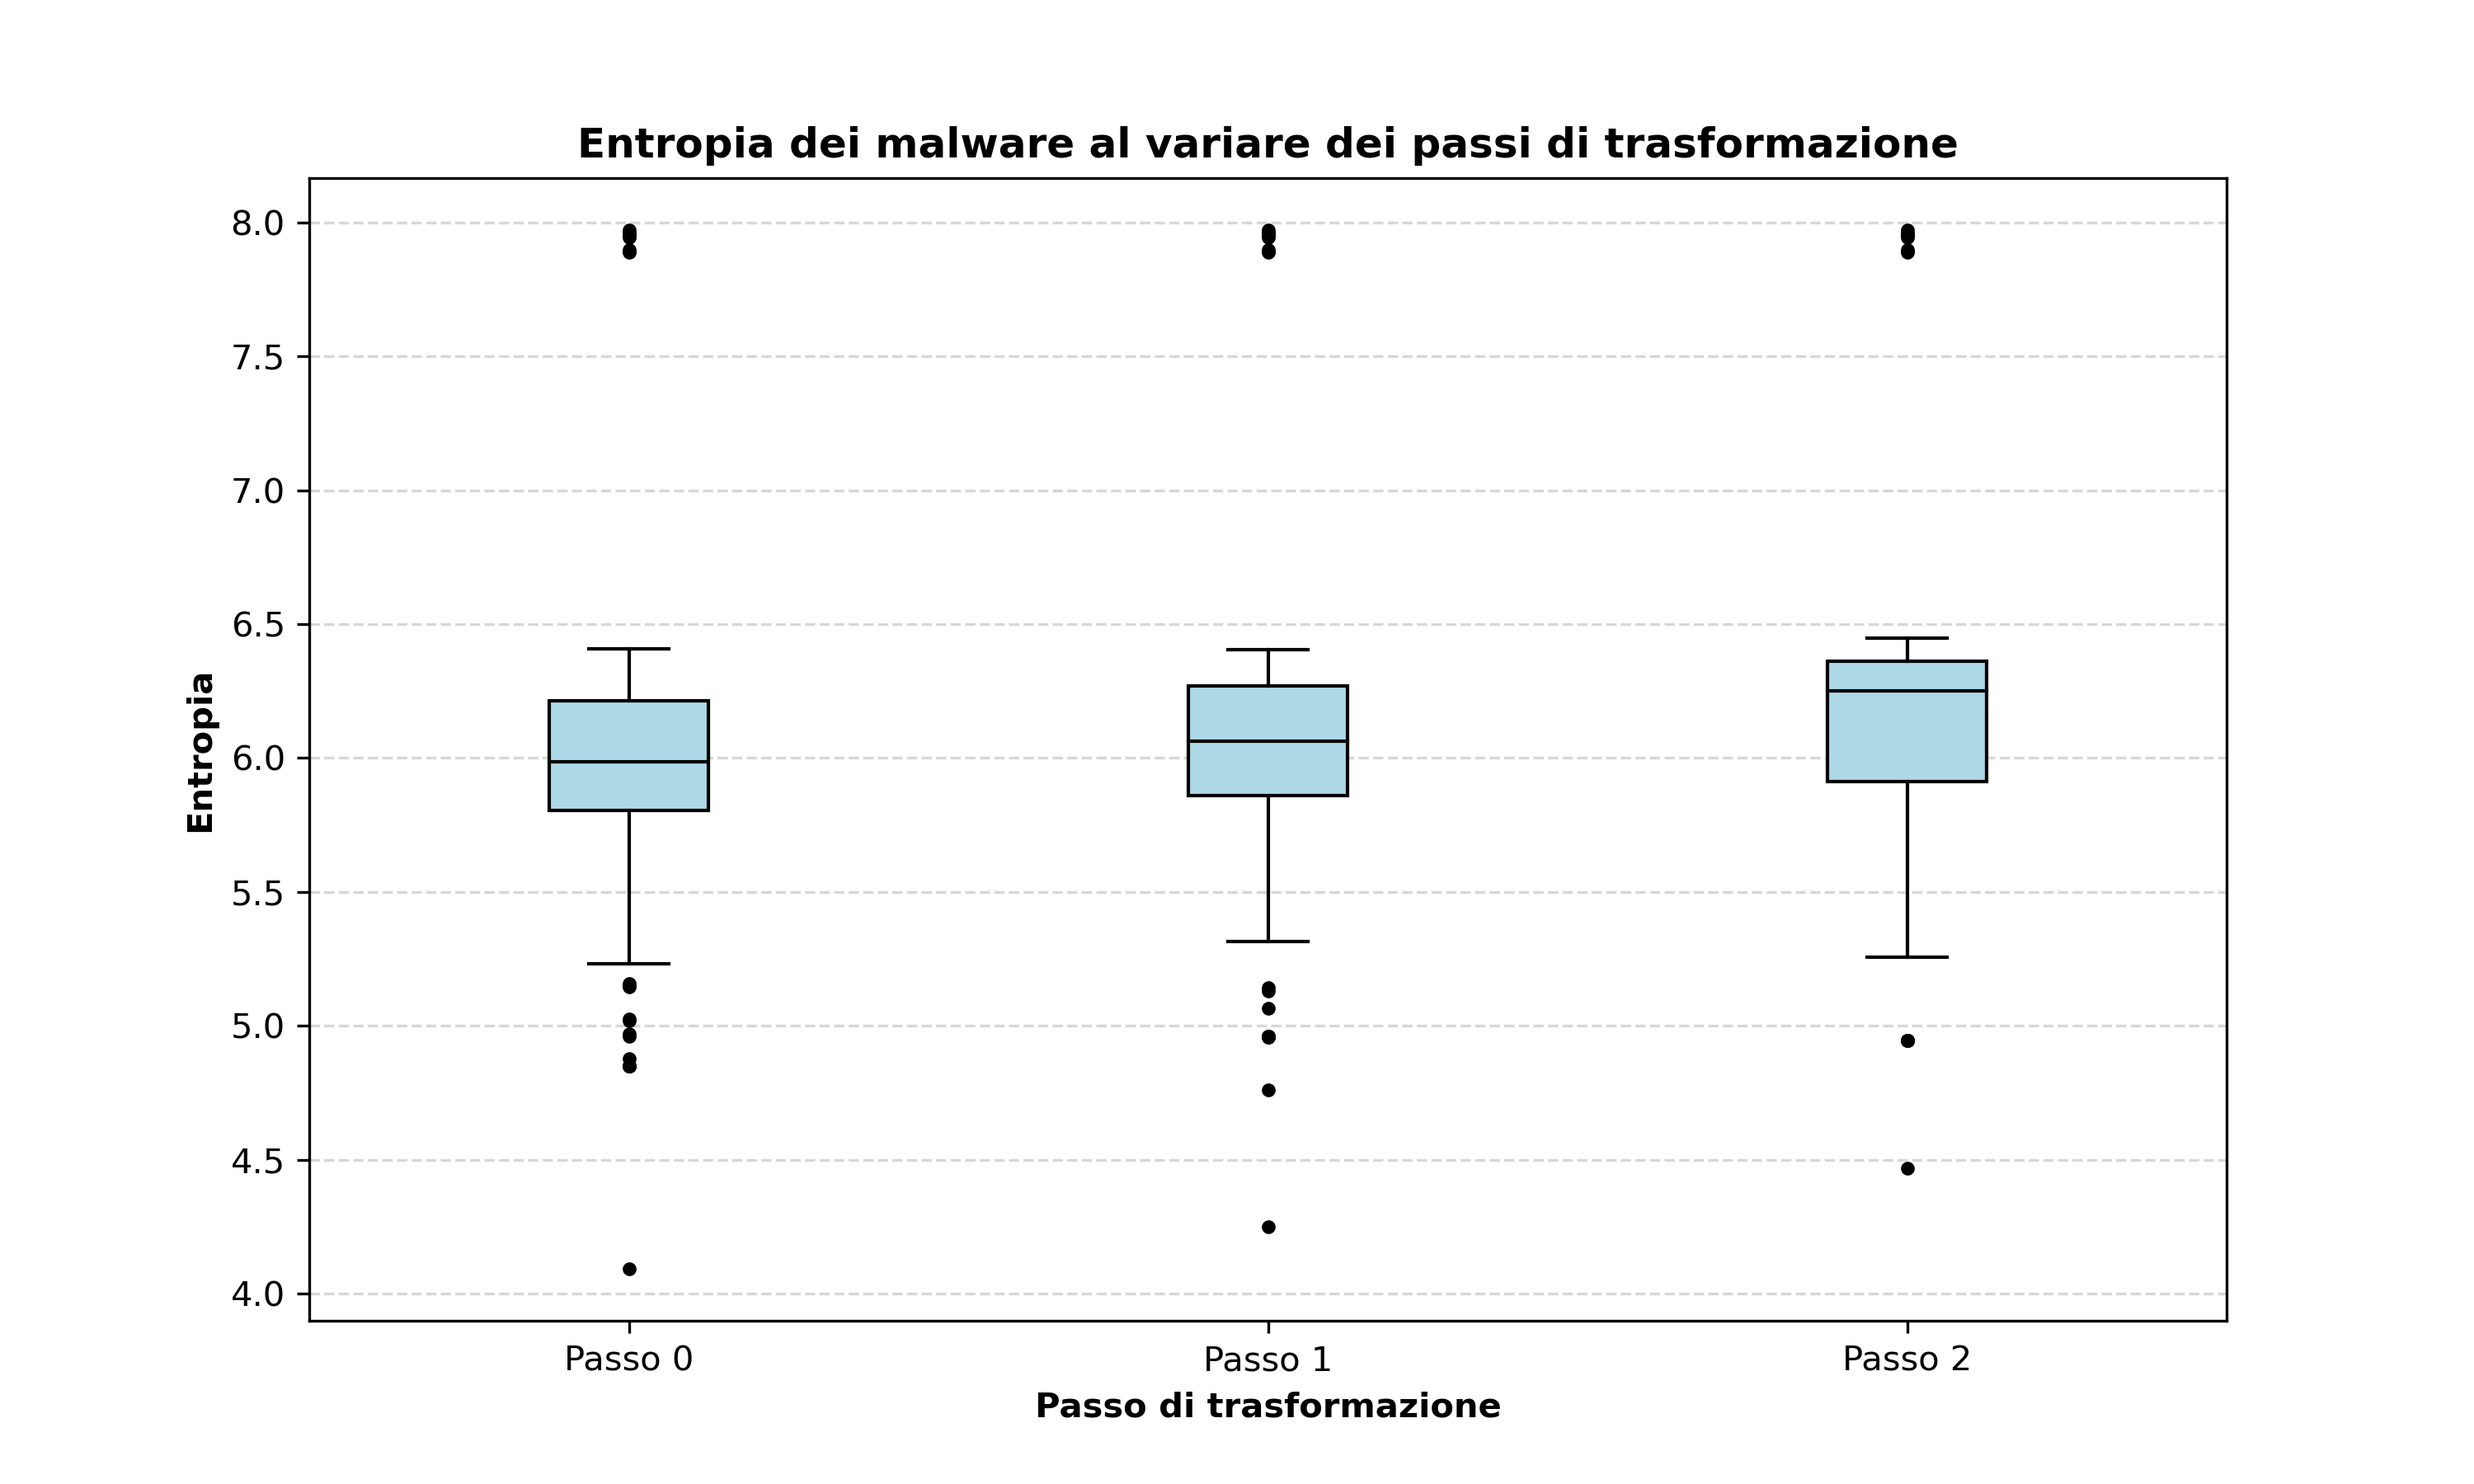
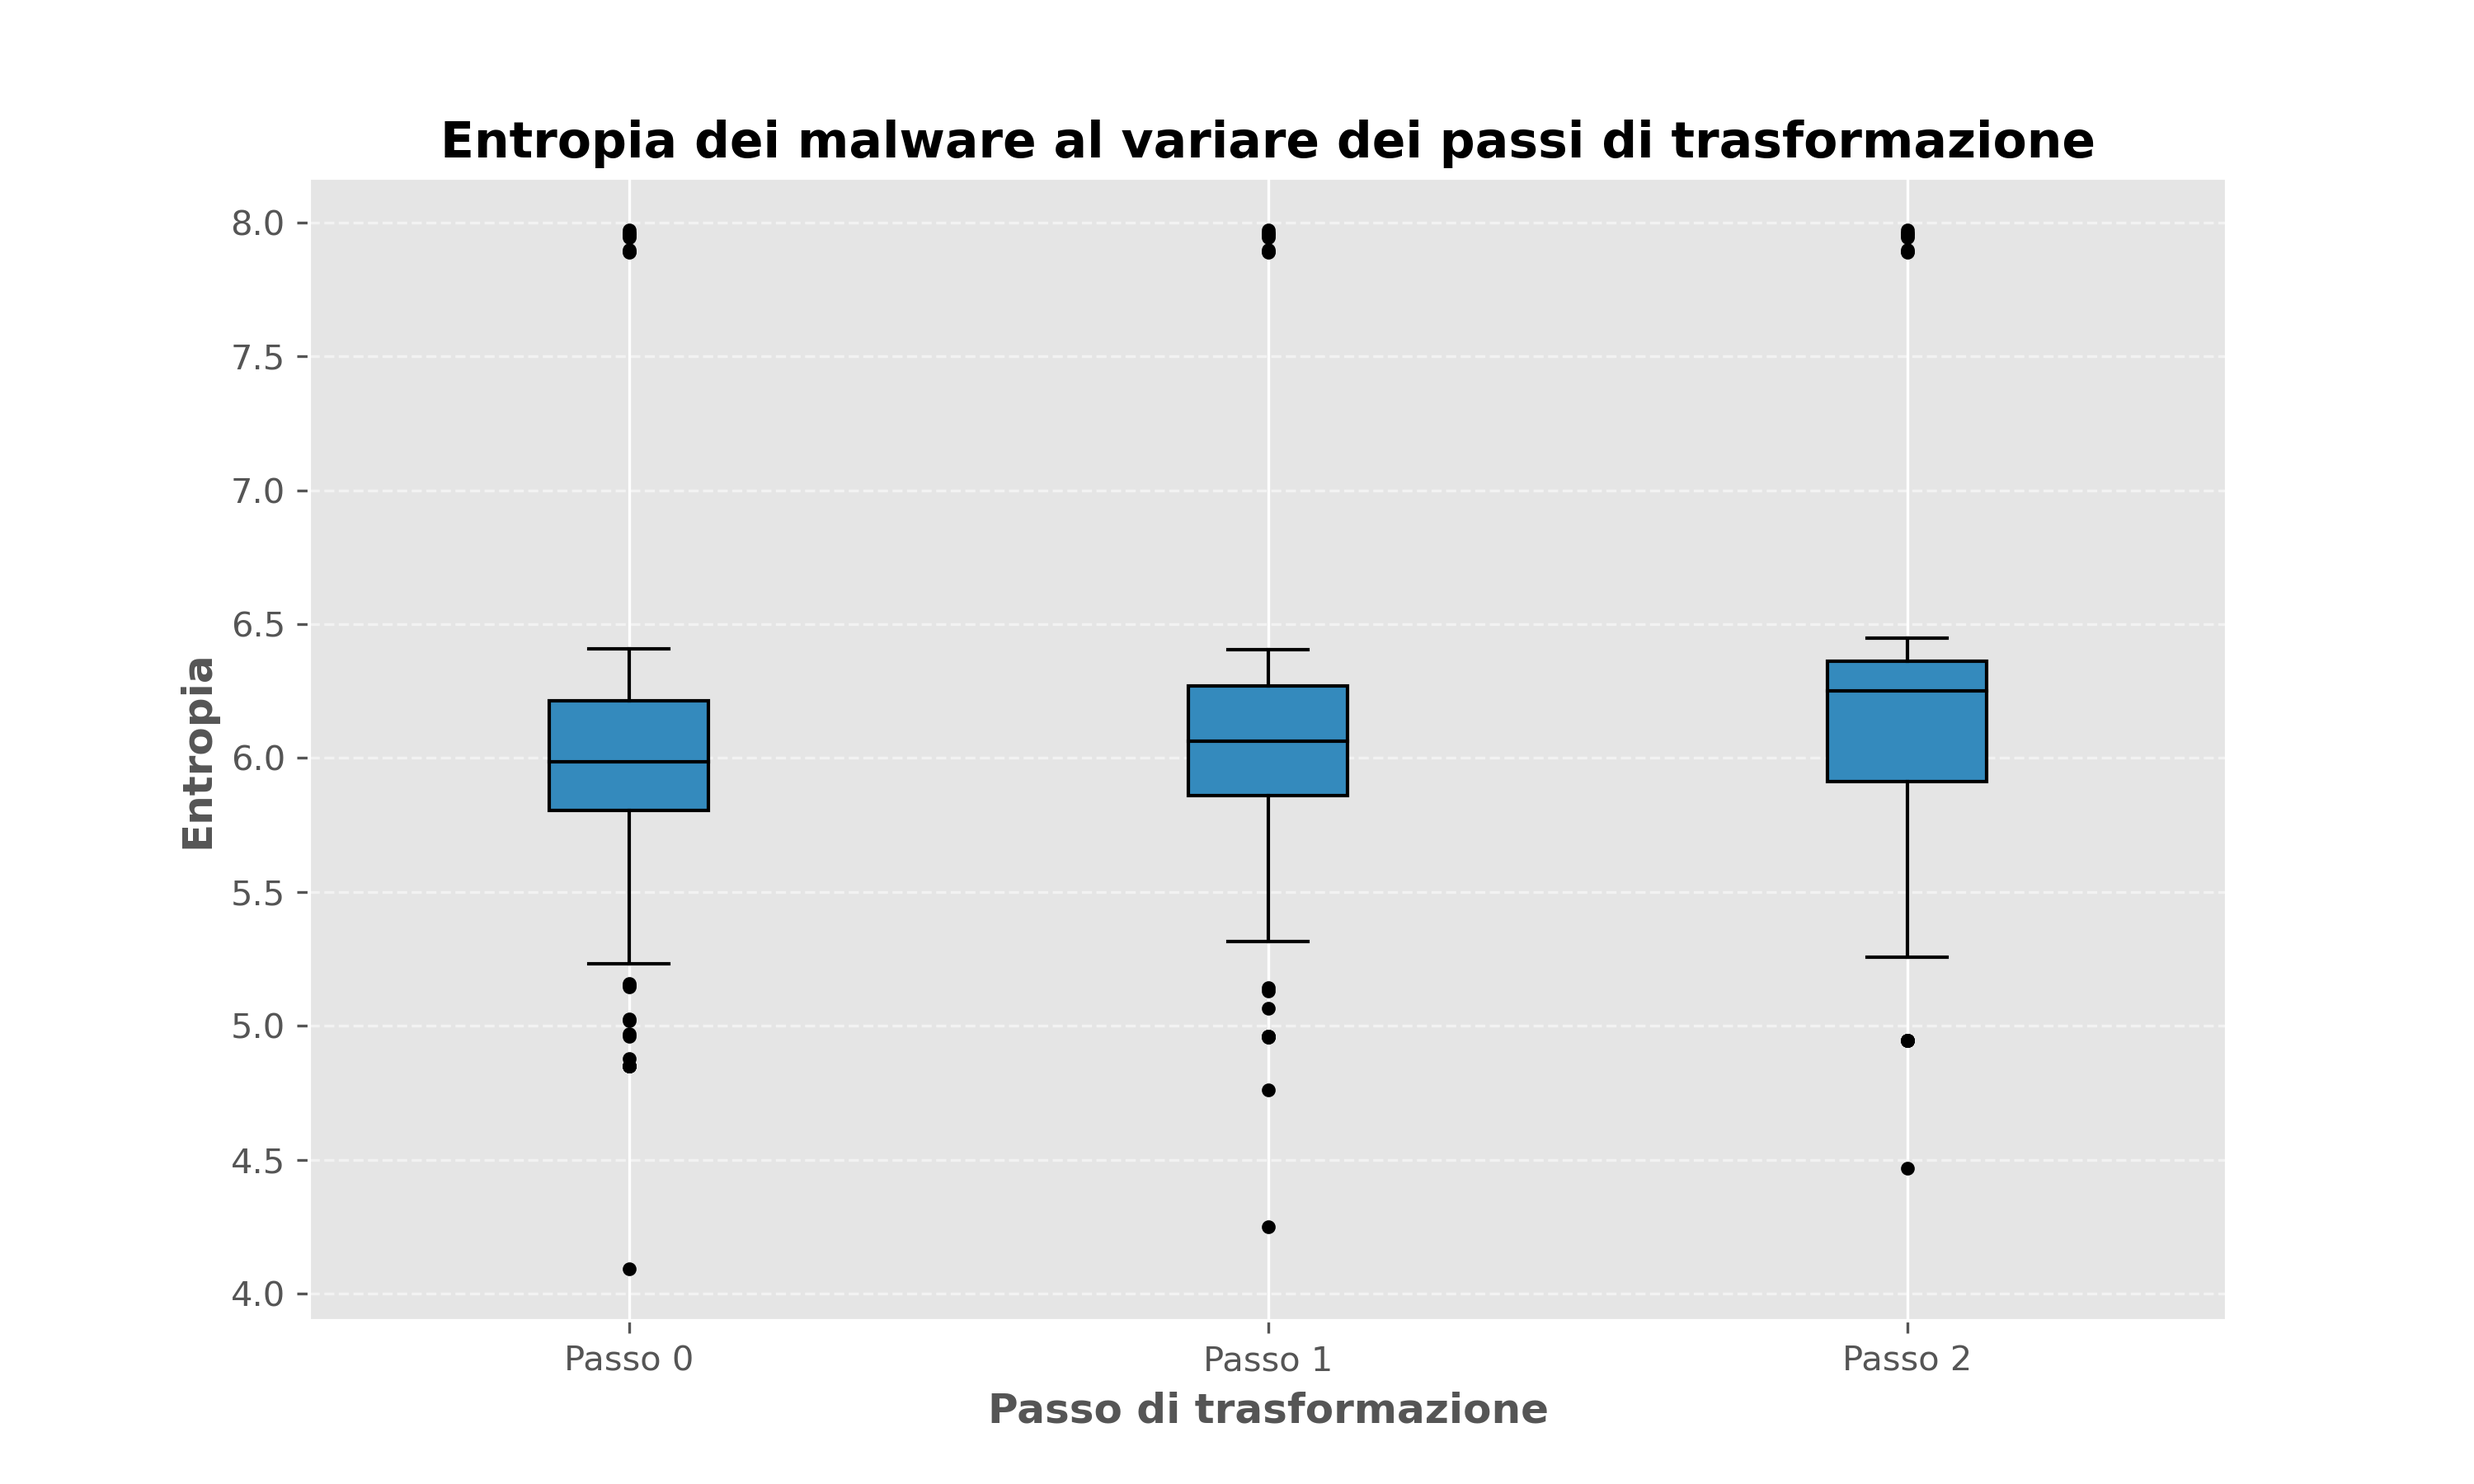
Use of ggplot style in all plots and csv files for top malware detection rate and top entropy have been created

diff --git a/benchmark/plots.py b/benchmark/plots.py
@@ -2,8 +2,14 @@ import pandas as pd
 import numpy as np
 import matplotlib.pyplot as plt
 
-#df = pd.read_csv("pagerank_global.csv", sep=",")
-df = pd.read_csv("mooncalc_global.csv", sep=",")
+plt.style.use('ggplot')
+plt.rcParams['font.family'] = 'sans-serif'
+plt.rcParams['font.serif'] = 'Ubuntu'
+plt.rcParams['font.monospace'] = 'Ubuntu Mono'
+palette = plt.rcParams['axes.prop_cycle'].by_key()['color']
+
+df = pd.read_csv("pagerank_global.csv", sep=",")
+#df = pd.read_csv("mooncalc_global.csv", sep=",")
 
 columns = ["Elapsed_0", "Elapsed_1", "Elapsed_2", "Elapsed_3"]
 steps = ["Passo 0" ,"Passo 1", "Passo 2", "Passo 3"]
@@ -24,12 +30,12 @@ for col_name in columns:
 
 # plot the data
 plt.figure(figsize=(10, 6))
-plt.plot(steps, means, color="black", marker="o", markersize=5, label="tempo di esecuzione medio (s)")
-plt.errorbar(steps, means, color="red", yerr=stddev, fmt="o", capsize=4, label="deviazione standard")
+plt.plot(steps, means, color="k", marker="o", markersize=5, label="tempo di esecuzione medio (s)")
+plt.errorbar(steps, means, color=palette[0], yerr=stddev, fmt="o", capsize=4, label="deviazione standard")
 plt.xlabel("Passi di trasformazione", fontweight="bold")
 plt.ylabel("Tempo di esecuzione (s)", fontweight="bold")
-#plt.title("Tempi di esecuzione del benchmark 'pagerank' al variare dei passi di trasformazione", fontweight="bold")
-plt.title("Tempi di esecuzione del benchmark 'moon-calc' al variare dei passi di trasformazione", fontweight="bold")
+plt.title("Tempi di esecuzione del benchmark 'pagerank' al variare dei passi di trasformazione", fontweight="bold")
+#plt.title("Tempi di esecuzione del benchmark 'moon-calc' al variare dei passi di trasformazione", fontweight="bold")
 #plt.legend(loc="upper right")
 '''
 for i, mean in enumerate(means):
@@ -38,9 +44,9 @@ for i, mean in enumerate(means):
                  ha='left', va='bottom', fontsize=8, bbox=dict(facecolor='white', edgecolor='black', boxstyle='square'))
 '''
 
-#plt.ylim(min[0] - 0.2, max[3] + 0.2)
-plt.ylim(min[0] - 0.5, max[3] + 0.5)
+plt.ylim(min[0] - 0.2, max[3] + 0.2)
+#plt.ylim(min[0] - 0.5, max[3] + 0.5)
 
-#plt.savefig("pagerank.png", dpi=300)
-plt.savefig("moon-calc.png", dpi=300)
+plt.savefig("pagerank.png", dpi=300)
+#plt.savefig("moon-calc.png", dpi=300)
 plt.show()

diff --git a/vt/boxplot.py b/vt/boxplot.py
@@ -1,12 +1,16 @@
 import pandas as pd
 import matplotlib.pyplot as plt
 
+plt.style.use('ggplot')
+plt.rcParams['font.family'] = 'sans-serif'
+plt.rcParams['font.serif'] = 'Ubuntu'
+plt.rcParams['font.monospace'] = 'Ubuntu Mono'
 
 boxplot_options = {
     'widths': 0.25,  # Larghezza dei box
     'patch_artist': True,  # Abilita l'uso di colori personalizzati
     'medianprops': {'color': 'black'},  # Colore della linea della mediana
-    'boxprops': {'color': 'black', 'facecolor': 'lightblue'},  # Colore del box
+    'boxprops': {'color': 'black'},  # Colore del box
     'whiskerprops': {'color': 'black'},  # Colore delle linee dei baffi
     'capprops': {'color': 'black'},  # Colore delle linee delle estremità dei baffi
     'flierprops': {'marker': 'o', 'markerfacecolor': 'black', 'markersize': 3},  # Opzioni per gli outliers
